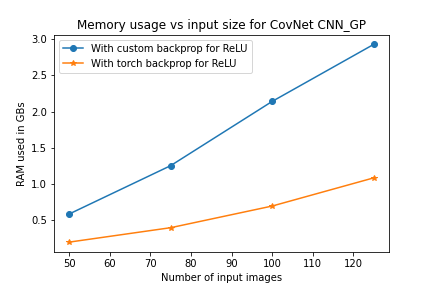
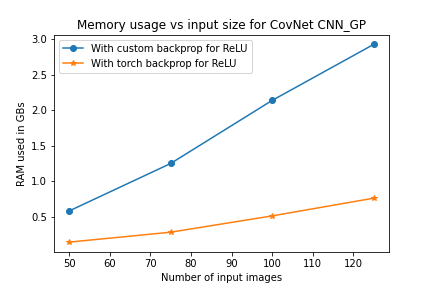
Added computation of xx and yy in custom autograd for ReLU as well

diff --git a/main.py b/main.py
@@ -12,6 +12,103 @@ import matplotlib.pyplot as plt
 import torchvision.transforms as T
 from torch import autograd
 
+def rho(X_batch: torch.Tensor, Y_batch: torch.Tensor,
+        Y_sample: torch.Tensor, pi_matrix: torch.Tensor, kernel) -> torch.Tensor:
+    """Calculates the rho which acts as the loss function for the Kernel Flow method. It evaluates how good the results were even when the
+    training input was reduced by a factor.
+
+    Args:
+        X_batch (torch.Tensor): Training batch dataset
+        Y_batch (torch.Tensor): Training batch dataset labels in one hot encoding
+        Y_sample (torch.Tensor): Training sample dataset drawn from the batch in one hot encoding
+        pi_matrix (torch.Tensor): pi matrix
+
+    Returns:
+        torch.Tensor: Resulting value of rho
+    """
+    # rho = 1 - trace(Y_s^T * K(X_s, X_s)^-1 * Y_s) / trace(Y_b^T K(X_b, X_b)^-1 Y_b)
+    # Calculation of two kernels is expensive so we use proposition 3.2 Owhadi 2018
+    # rho = 1 - trace(Y_s^T * (pi_mat * K(X_b, X_b)^-1 pi_mat^T) * Y_s) / trace(Y_b^T K(X_b, X_b)^-1 Y_b)
+
+    # Calculate kernel theta = Kernel(X_Nf, X_Nf). NOTE: This is the most expensive step of the algorithm
+    theta = kernel(X_batch, X_batch)
+
+    # Calculate sample_matrix = pi_mat*theta*pi_mat^T
+    sample_matrix = torch.matmul(pi_matrix, torch.matmul(theta, torch.transpose(pi_matrix, 0, 1)))
+
+    # Add regularization
+    inverse_data = torch.linalg.inv(theta)# + 0 * torch.eye(theta.shape[0]))
+
+    # Delete theta matrix to free memory as it is not needed beyond this point
+    # del theta
+
+    inverse_sample = torch.linalg.inv(sample_matrix)# + 0 * torch.eye(sample_matrix.shape[0]))
+
+    # Calculate numerator
+    numerator = torch.matmul(torch.transpose(Y_sample,0,1), torch.matmul(inverse_sample, Y_sample))
+    # Calculate denominator
+    denominator = torch.matmul(torch.transpose(Y_batch,0,1), torch.matmul(inverse_data, Y_batch))
+    # Calculate rho
+    rho = 1 - torch.trace(numerator)/torch.trace(denominator)
+
+    return rho
+
+class ReLUCNNGP(autograd.Function):
+    @staticmethod
+    def forward(ctx, xy, xx, yy):
+        ctx.save_for_backward(xy, xx, yy)
+        f32_tiny = np.finfo(np.float32).tiny
+        xx_yy = xx*yy + f32_tiny
+        eps = 1e-6
+        # NOTE: Replaced rsqrt with 1/t.sqrt()+eps. Check with Prof For accuracy
+        inverse_sqrt_xx_yy = 1 / (torch.sqrt(xx_yy) + eps)
+        # Clamp these so the outputs are not NaN
+        # Use small eps to avoid NaN during backpropagation
+        cos_theta = (xy * inverse_sqrt_xx_yy).clamp(-1+eps, 1-eps)
+        sin_theta = torch.sqrt((xx_yy - xy**2).clamp(min=eps))
+        theta = torch.acos(cos_theta)
+        xy = (sin_theta + (math.pi - theta)*xy) / (2*math.pi)
+        return xy
+
+    @staticmethod
+    def backward(ctx, grad_output):
+        xy, xx, yy = ctx.saved_tensors
+        f32_tiny = np.finfo(np.float32).tiny
+        xx_yy = xx*yy + f32_tiny
+        eps = 1e-6
+        # NOTE: See https://www.wolframalpha.com/input?i=differentiate+%28sqrt%28a*b+-+c%5E2%29+%2B+%28pi+-+arccos%28c%2Fsqrt%28a*b%29%29%29*c%29%2F%282pi%29+wrt+c for differentiation wrt xy
+        # term_1 = xy / (torch.sqrt((xx_yy - xy**2).clamp(min=0)) + eps)
+        # term_2 = xy / (torch.sqrt(xx_yy.clamp(min=0)) * torch.sqrt((1 - xy**2 / xx_yy).clamp(min=0)) + eps)
+        # term_3 = torch.acos((xy / (torch.sqrt(xx_yy.clamp(min=0)) + eps)).clamp(-1, 1))
+        term_1 = xy / (torch.sqrt((xx_yy - xy**2).clamp(min=0)))
+        term_2 = xy / (torch.sqrt(xx_yy.clamp(min=0)) * torch.sqrt((1 - xy**2 / xx_yy).clamp(min=0)))
+        term_3 = torch.acos((xy / (torch.sqrt(xx_yy.clamp(min=0)))).clamp(-1, 1))
+        # Convert nans to 0 and inf to large numbers
+        term_1 = torch.nan_to_num(term_1, 0.0)
+        term_2 = torch.nan_to_num(term_2, 0.0)
+        term_3 = torch.nan_to_num(term_3, 0.0)
+        diff_xy = (- term_1 + term_2 - term_3 + math.pi) / (2*math.pi)
+        diff_xy_chained = grad_output * diff_xy
+
+        # NOTE: See https://www.wolframalpha.com/input?i=differentiate+%28sqrt%28a+-+c%5E2%29+%2B+%28pi+-+arccos%28c%2Fsqrt%28a%29%29%29*c%29%2F%282pi%29+wrt+a for differentiation wrt xx_yy.
+        # term_1 = 1 / (2 * torch.sqrt((xx_yy - xy**2).clamp(min=0)) + eps)
+        # term_2 = xy**2 / (2 * xx_yy**1.5 * torch.sqrt((1 - xy**2 / xx_yy).clamp(min=0)) + eps)
+        term_1 = 1 / (2 * torch.sqrt((xx_yy - xy**2).clamp(min=0)))
+        term_2 = xy**2 / (2 * xx_yy**1.5 * torch.sqrt((1 - xy**2 / xx_yy).clamp(min=0)))
+        # Convert nans to 0 and inf to large numbers
+        term_1 = torch.nan_to_num(term_1, 0.0)
+        term_2 = torch.nan_to_num(term_2, 0.0)
+        diff_xx_yy = (term_1 - term_2) / (2 * math.pi)
+
+        diff_xx = diff_xx_yy * yy
+        diff_xx_chained = grad_output * diff_xx
+        diff_yy = diff_xx_yy * xx
+        diff_yy_chained = grad_output * diff_yy
+
+        # diff_xx_yy_chained = grad_output * diff_xx_yy
+
+        return diff_xy_chained, diff_xx_chained, diff_yy_chained
+
 if __name__ == "__main__":
     transform = transforms.Compose([transforms.ToTensor()])
 
@@ -71,7 +168,11 @@ if __name__ == "__main__":
     #     ReLU(),
     #     Conv2d(kernel_size=28, padding=0, var_weight=1.0, var_bias=1.0)  # equivalent to a dense layer
     #     )
-    K_xx = model(X_train[0:10], X_train[0:10])#, X_train[0:10])
-    print(K_xx)
 
+    # K_xx = model(X_train[0:10], X_train[0:10])#, X_train[0:10])
 
+    # pi_mat = KernelFlowsCNNGP.pi_matrix(sample_indices=np.array([1,3,5,7,9]), dimension=(5,10))
+    # rho_val = rho(X_train[:10], Y_train[:10].to(torch.float32), Y_sample=Y_train[np.array([1,3,5,7,9])].to(torch.float32), pi_matrix=pi_mat, kernel=model)
+    # rho_val.backward()
+    # for params in model.parameters():
+    #     print(params, params.grad)

diff --git a/cnn_gp/kernels.py b/cnn_gp/kernels.py
@@ -12,10 +12,58 @@ from torch import autograd
 __all__ = ("NNGPKernel", "Conv2d", "ReLU", "Sequential", "Mixture",
            "MixtureModule", "Sum", "SumModule", "resnet_block", "ReLUCNNGP")
 
+# class ReLUCNNGP(autograd.Function):
+#     @staticmethod
+#     def forward(ctx, xy, xx_yy):
+#         ctx.save_for_backward(xy, xx_yy)
+#         eps = 1e-6
+#         # NOTE: Replaced rsqrt with 1/t.sqrt()+eps. Check with Prof For accuracy
+#         inverse_sqrt_xx_yy = 1 / (t.sqrt(xx_yy) + eps)
+#         # Clamp these so the outputs are not NaN
+#         # Use small eps to avoid NaN during backpropagation
+#         cos_theta = (xy * inverse_sqrt_xx_yy).clamp(-1+eps, 1-eps)
+#         sin_theta = t.sqrt((xx_yy - xy**2).clamp(min=eps))
+#         theta = t.acos(cos_theta)
+#         xy = (sin_theta + (math.pi - theta)*xy) / (2*math.pi)
+#         return xy
+
+#     @staticmethod
+#     def backward(ctx, grad_output):
+#         xy, xx_yy = ctx.saved_tensors
+#         eps = 1e-6
+#         # NOTE: See https://www.wolframalpha.com/input?i=differentiate+%28sqrt%28a*b+-+c%5E2%29+%2B+%28pi+-+arccos%28c%2Fsqrt%28a*b%29%29%29*c%29%2F%282pi%29+wrt+c for differentiation wrt xy
+#         # term_1 = xy / (t.sqrt((xx_yy - xy**2).clamp(min=0)) + eps)
+#         # term_2 = xy / (t.sqrt(xx_yy.clamp(min=0)) * t.sqrt((1 - xy**2 / xx_yy).clamp(min=0)) + eps)
+#         # term_3 = t.acos((xy / (t.sqrt(xx_yy.clamp(min=0)) + eps)).clamp(-1, 1))
+#         term_1 = xy / (t.sqrt((xx_yy - xy**2).clamp(min=0)))
+#         term_2 = xy / (t.sqrt(xx_yy.clamp(min=0)) * t.sqrt((1 - xy**2 / xx_yy).clamp(min=0)))
+#         term_3 = t.acos((xy / (t.sqrt(xx_yy.clamp(min=0)))).clamp(-1, 1))
+#         # Convert nans to 0 and inf to large numbers
+#         term_1 = t.nan_to_num(term_1, 0.0)
+#         term_2 = t.nan_to_num(term_2, 0.0)
+#         term_3 = t.nan_to_num(term_3, 0.0)
+#         diff_xy = (- term_1 + term_2 - term_3 + math.pi) / (2*math.pi)
+#         diff_xy_chained = grad_output * diff_xy
+
+#         # NOTE: See https://www.wolframalpha.com/input?i=differentiate+%28sqrt%28a+-+c%5E2%29+%2B+%28pi+-+arccos%28c%2Fsqrt%28a%29%29%29*c%29%2F%282pi%29+wrt+a for differentiation wrt xx_yy.
+#         # term_1 = 1 / (2 * t.sqrt((xx_yy - xy**2).clamp(min=0)) + eps)
+#         # term_2 = xy**2 / (2 * xx_yy**1.5 * t.sqrt((1 - xy**2 / xx_yy).clamp(min=0)) + eps)
+#         term_1 = 1 / (2 * t.sqrt((xx_yy - xy**2).clamp(min=0)))
+#         term_2 = xy**2 / (2 * xx_yy**1.5 * t.sqrt((1 - xy**2 / xx_yy).clamp(min=0)))
+#         # Convert nans to 0 and inf to large numbers
+#         term_1 = t.nan_to_num(term_1, 0.0)
+#         term_2 = t.nan_to_num(term_2, 0.0)
+#         diff_xx_yy = (term_1 - term_2) / (2 * math.pi)
+#         diff_xx_yy_chained = grad_output * diff_xx_yy
+
+#         return diff_xy_chained, diff_xx_yy_chained
+
 class ReLUCNNGP(autograd.Function):
     @staticmethod
-    def forward(ctx, xy, xx_yy):
-        ctx.save_for_backward(xy, xx_yy)
+    def forward(ctx, xy, xx, yy):
+        ctx.save_for_backward(xy, xx, yy)
+        f32_tiny = np.finfo(np.float32).tiny
+        xx_yy = xx*yy + f32_tiny
         eps = 1e-6
         # NOTE: Replaced rsqrt with 1/t.sqrt()+eps. Check with Prof For accuracy
         inverse_sqrt_xx_yy = 1 / (t.sqrt(xx_yy) + eps)
@@ -29,7 +77,9 @@ class ReLUCNNGP(autograd.Function):
 
     @staticmethod
     def backward(ctx, grad_output):
-        xy, xx_yy = ctx.saved_tensors
+        xy, xx, yy = ctx.saved_tensors
+        f32_tiny = np.finfo(np.float32).tiny
+        xx_yy = xx*yy + f32_tiny
         eps = 1e-6
         # NOTE: See https://www.wolframalpha.com/input?i=differentiate+%28sqrt%28a*b+-+c%5E2%29+%2B+%28pi+-+arccos%28c%2Fsqrt%28a*b%29%29%29*c%29%2F%282pi%29+wrt+c for differentiation wrt xy
         # term_1 = xy / (t.sqrt((xx_yy - xy**2).clamp(min=0)) + eps)
@@ -54,9 +104,13 @@ class ReLUCNNGP(autograd.Function):
         term_1 = t.nan_to_num(term_1, 0.0)
         term_2 = t.nan_to_num(term_2, 0.0)
         diff_xx_yy = (term_1 - term_2) / (2 * math.pi)
-        diff_xx_yy_chained = grad_output * diff_xx_yy
 
-        return diff_xy_chained, diff_xx_yy_chained
+        diff_xx = diff_xx_yy * yy
+        diff_xx_chained = grad_output * diff_xx
+        diff_yy = diff_xx_yy * xx
+        diff_yy_chained = grad_output * diff_yy
+
+        return diff_xy_chained, diff_xx_chained, diff_yy_chained
 
 class NNGPKernel(nn.Module):
     """
@@ -203,12 +257,14 @@ class ReLU(NNGPKernel):
         1/2π ( √(v₁v₂ - c²) + (π - θ)c )
 
         # NOTE we divide by 2 to avoid multiplying the ReLU by sqrt(2)
+        # NOTE this entire logic is encapsulated in a custom autograd function along with its differential
         """
 
-        xx_yy = kp.xx * kp.yy + self.f32_tiny
+        # xx_yy = kp.xx * kp.yy + self.f32_tiny
         ###################SELF IMPLEMENTED BACKWARD PASS###########################
         relu_cnngp = ReLUCNNGP.apply
-        xy = relu_cnngp(kp.xy, xx_yy)
+        xy = relu_cnngp(kp.xy, kp.xx, kp.yy)
+        # xy = relu_cnngp(kp.xy, xx_yy)
         ###################SELF IMPLEMENTED BACKWARD PASS###########################
 
         # # Clamp these so the outputs are not NaN

diff --git a/test/test_cnn_gp/test_kernels.py b/test/test_cnn_gp/test_kernels.py
@@ -23,7 +23,8 @@ def test_relucnngp_backprop():
     """Test if self implemented backprop of ReLU Kernel is correct
     """
     relucnngp = ReLUCNNGP.apply
-    input = (torch.rand((3,3,1,1),dtype=torch.double,requires_grad=True), torch.rand((3,3,1,1),dtype=torch.double,requires_grad=True))
+    # input = (torch.rand((3,3,1,1),dtype=torch.double,requires_grad=True), torch.rand((3,3,1,1),dtype=torch.double,requires_grad=True))
+    input = (torch.rand((10,10,1,1),dtype=torch.double,requires_grad=True), torch.rand((10,1,1,1),dtype=torch.double,requires_grad=True), torch.rand((10,1,1),dtype=torch.double,requires_grad=True))
     test = gradcheck(relucnngp, input, eps=1e-10, atol=1e-4)
     assert test
 
